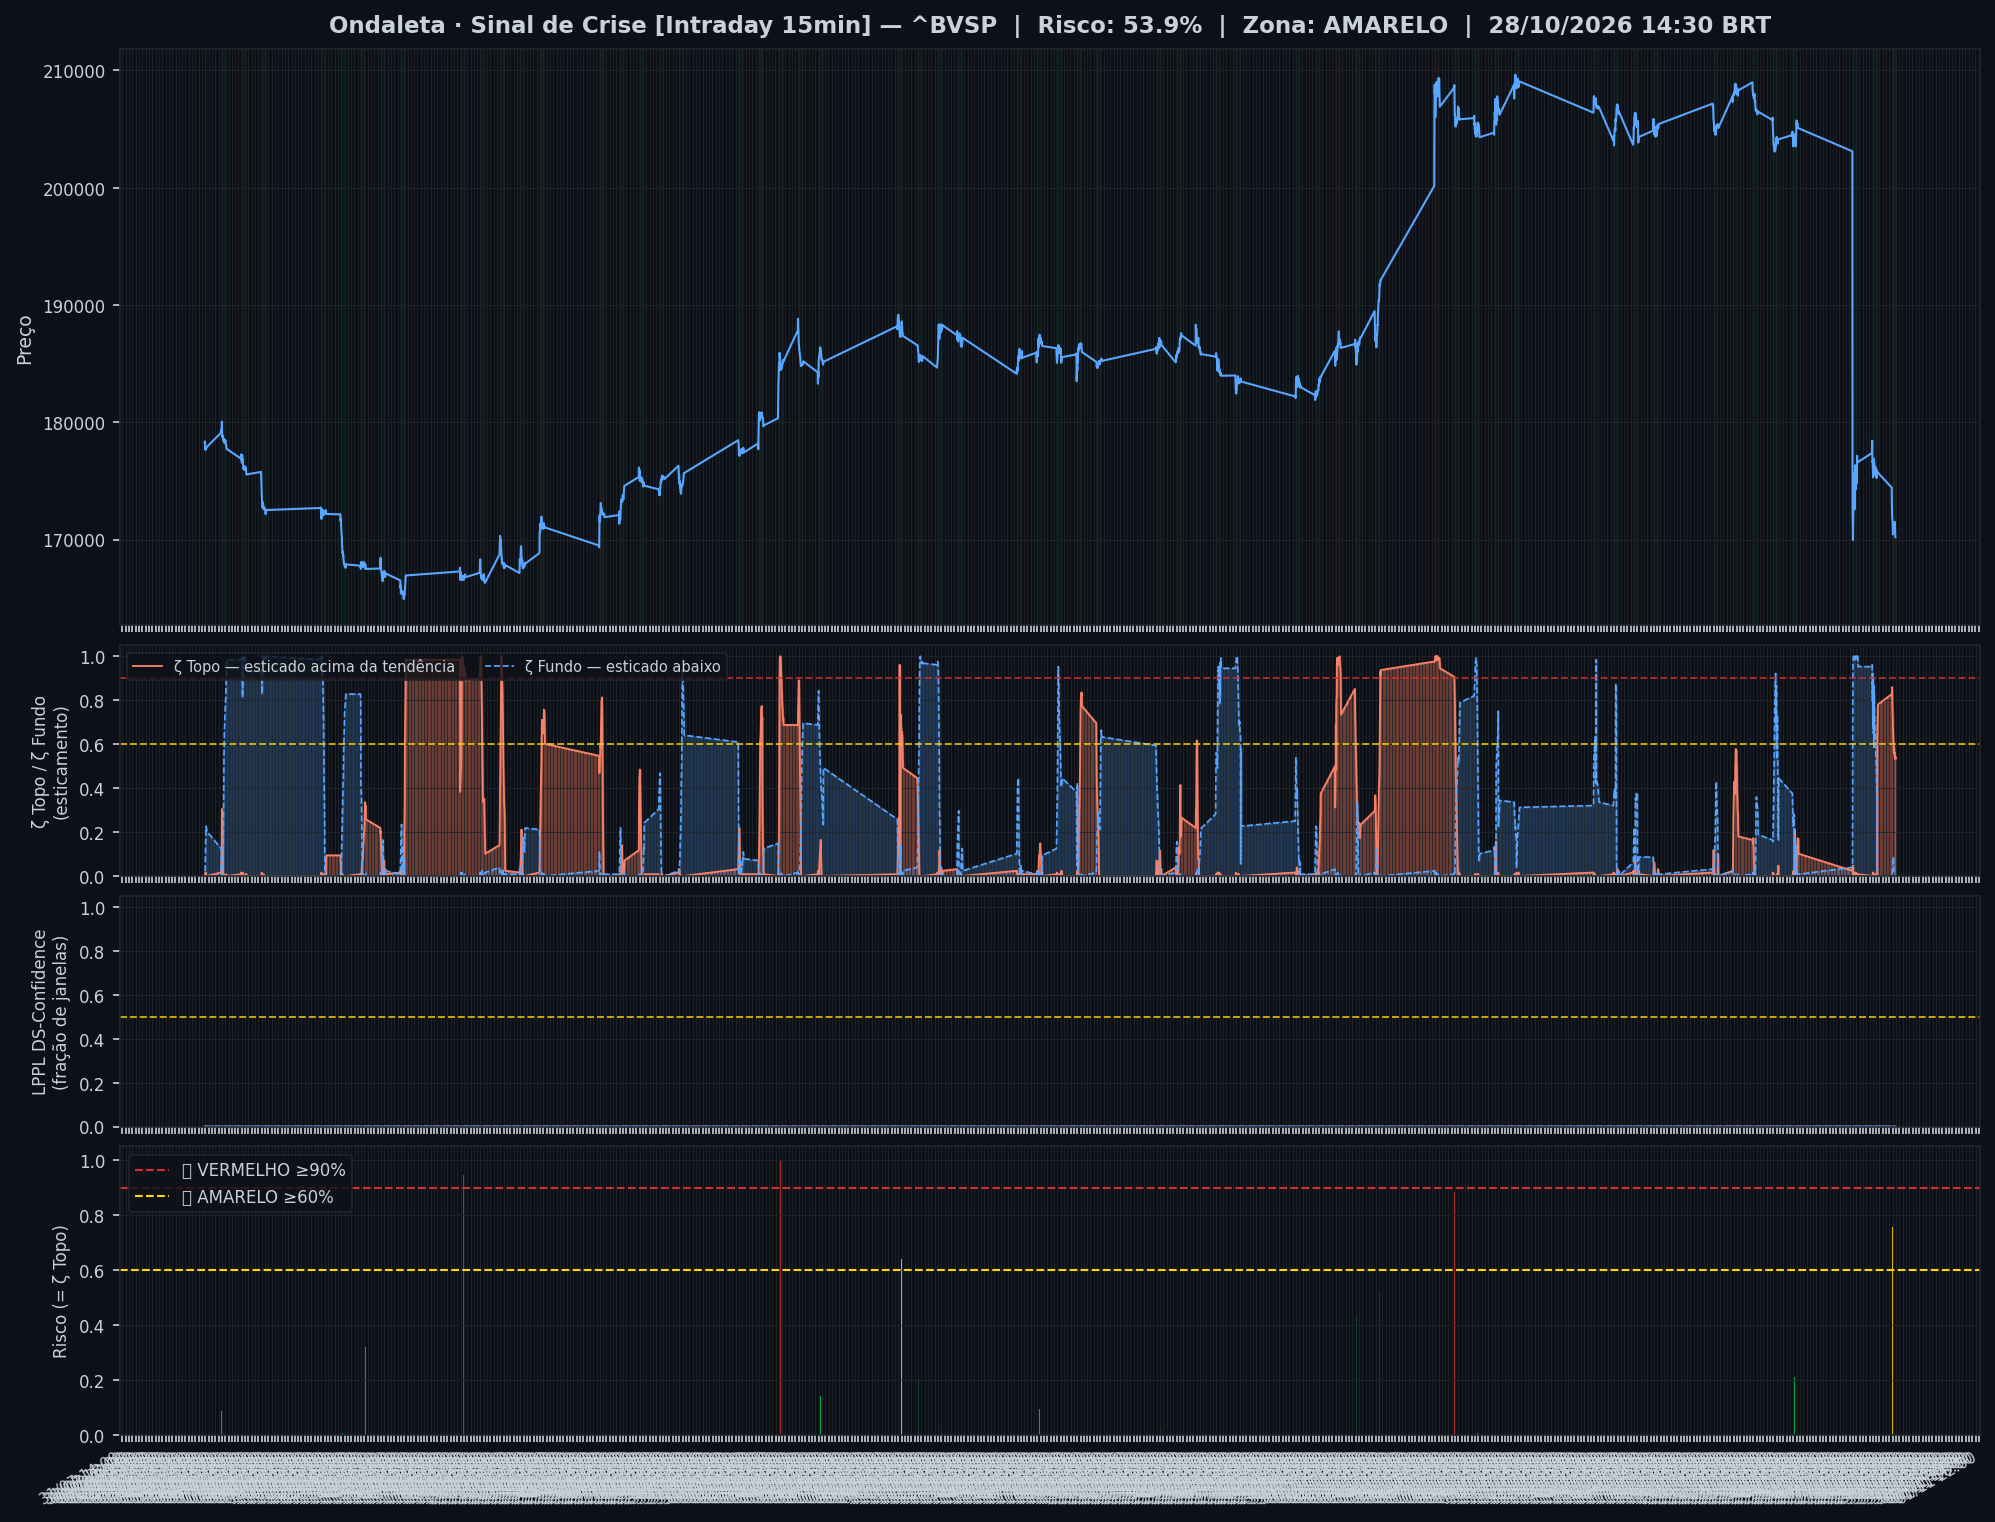
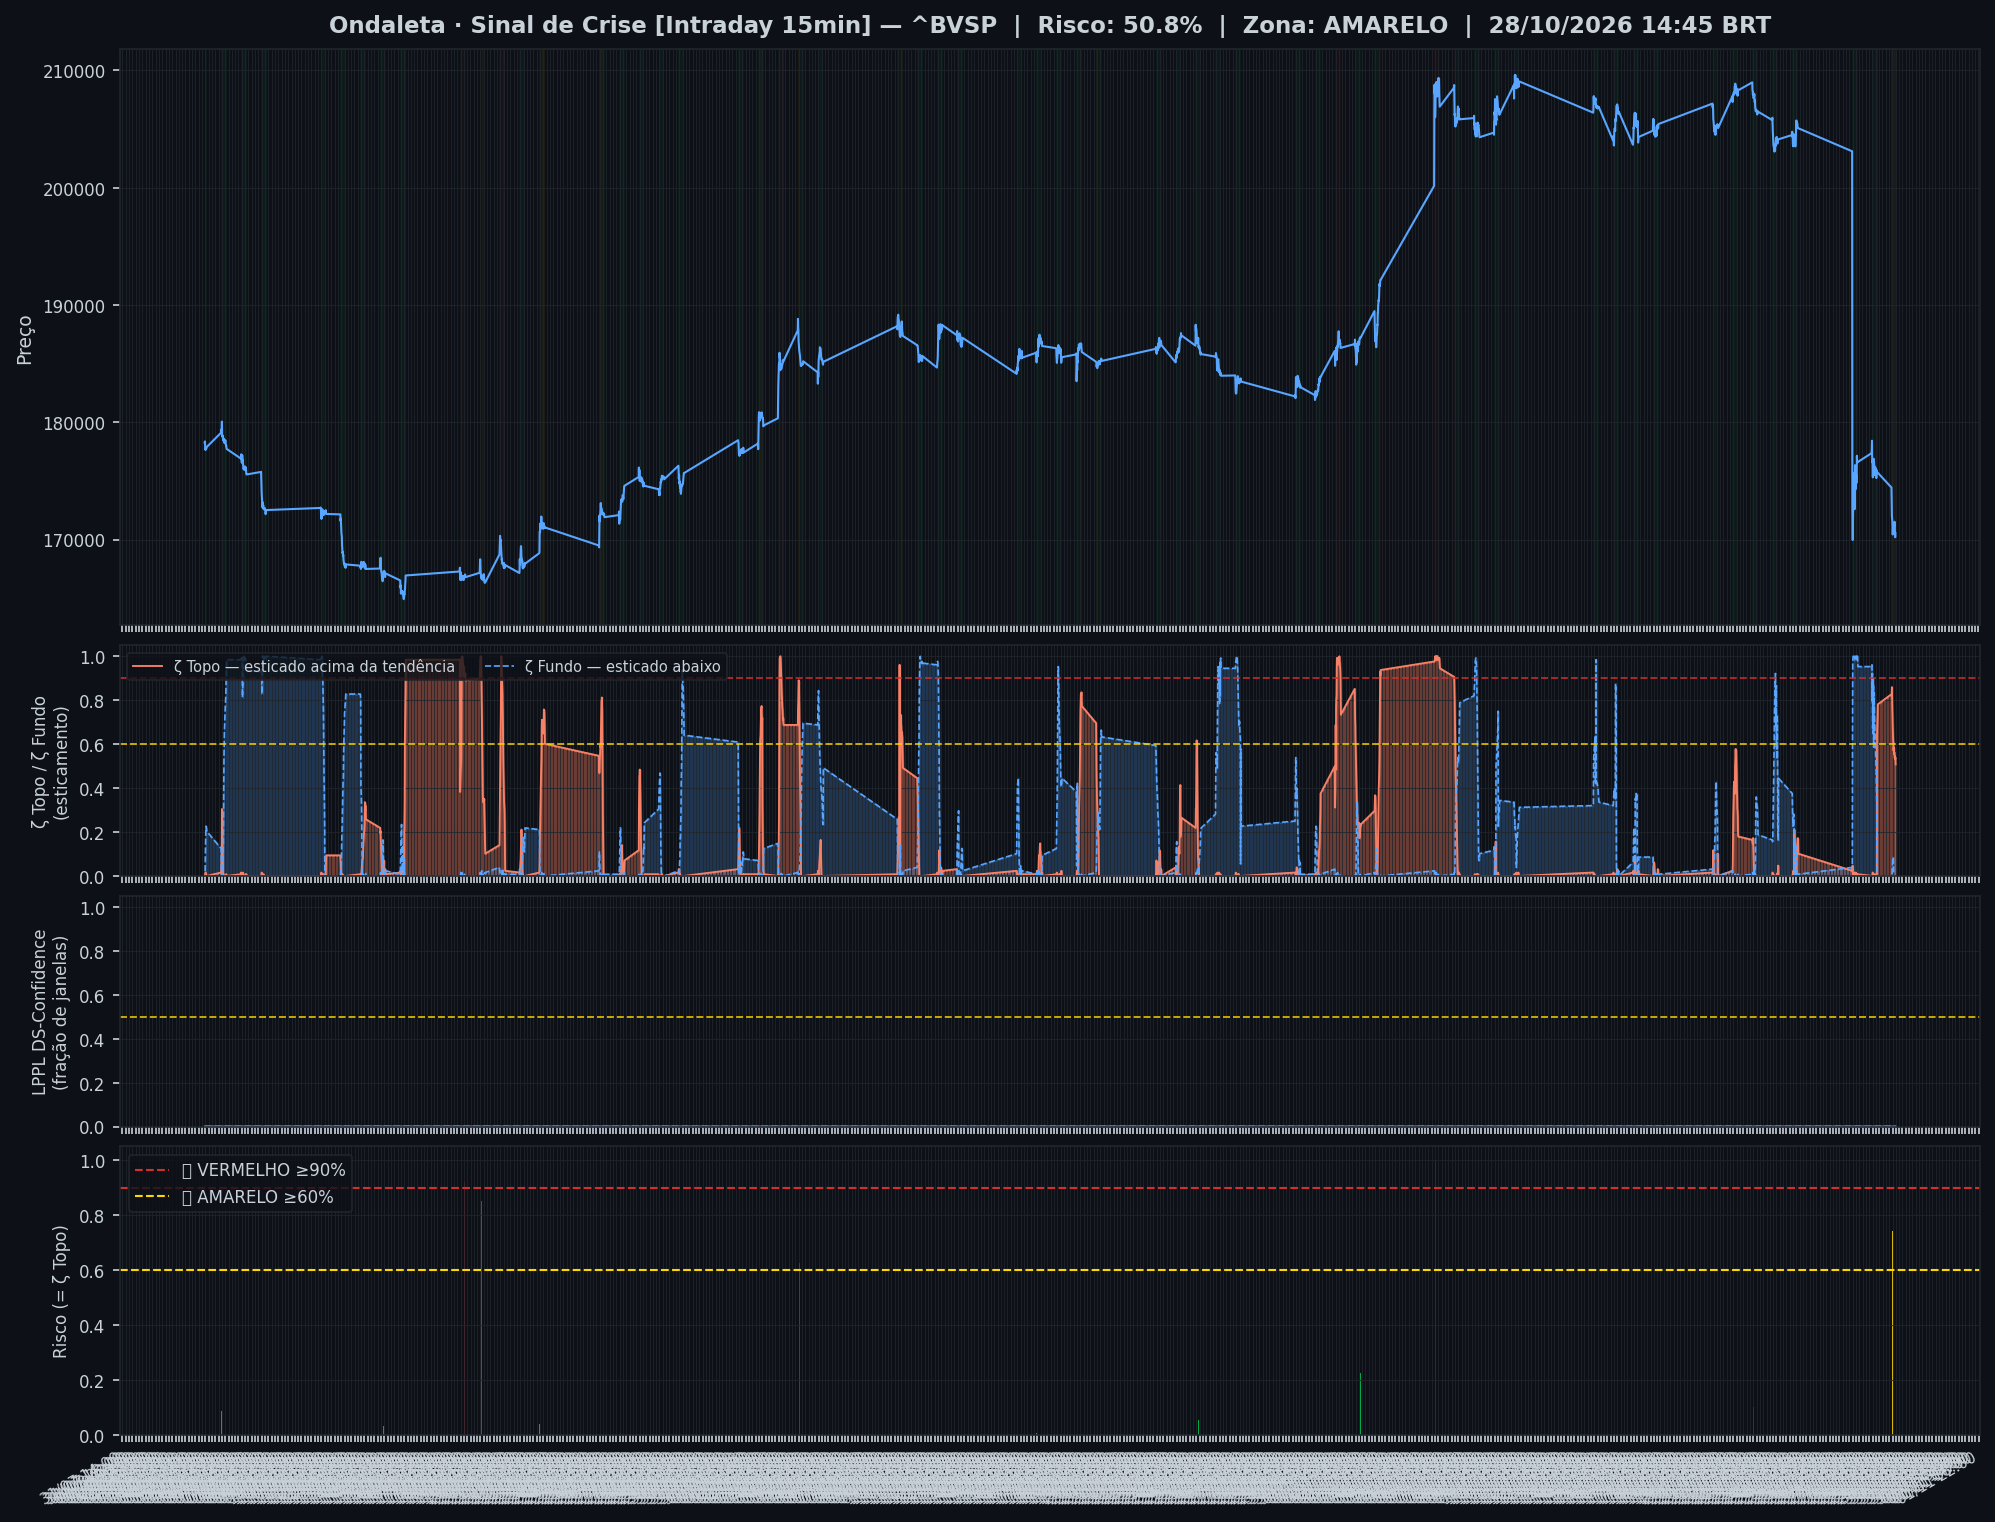
🤖 Auto: Sinal 28/10/2026 15:00

diff --git a/content/intraday/2026-10-28.md b/content/intraday/2026-10-28.md
@@ -1,10 +1,10 @@
 ---
-title: "🟡 Intraday 28/10/2026 14:30 BRT — AMARELO"
+title: "🟡 Intraday 28/10/2026 14:45 BRT — AMARELO"
 date: 2026-10-28
 tags: [intraday]
 ---
 
-> [!success] Onde o mercado está agora (28/10 14:30, candles de 15 min): **🟢 Calmo**
+> [!success] Onde o mercado está agora (28/10 14:45, candles de 15 min): **🟢 Calmo**
 > `Pânico ◀───────────────●─────▶ Euforia`
 >
 > O Ibovespa está dentro da sua faixa normal, sem excesso para cima nem para baixo.
@@ -20,8 +20,8 @@ tags: [intraday]
 > | 📍 **Sinais** | hoje: 2 sinal(is) | [abrir](sinais-topo-fundo/) |
 > | 🧪 **Placar ao vivo** | nenhuma operação encerrada ainda (desde 23/10/2026) | [abrir](operacoes/) |
 
-> [!warning] Sinal de Crise · Intraday 15 min (28/10 14:30): 🟡 **AMARELO** — Risco 54% · ▲ +1 p.p. vs leitura anterior
-> `███████████░░░░░░░░░`
+> [!warning] Sinal de Crise · Intraday 15 min (28/10 14:45): 🟡 **AMARELO** — Risco 51% · ▼ -3 p.p. vs leitura anterior
+> `██████████░░░░░░░░░░`
 > Atenção — preço esticado acima da tendência.
 
 
@@ -32,13 +32,13 @@ tags: [intraday]
 >
 > *Leitura educacional baseada em 26 anos de dados, não recomendação. [Como usar](../metodologia/crise#3-como-usar-na-prática).*
 
-| Indicador — Sinal de Crise · Intraday 15 min (28/10 14:30) | Valor |
+| Indicador — Sinal de Crise · Intraday 15 min (28/10 14:45) | Valor |
 |---|---|
-| 🔴 ζ Topo — preço esticado acima da tendência | **54%** |
+| 🔴 ζ Topo — preço esticado acima da tendência | **51%** |
 | 🔵 ζ Fundo — preço esticado abaixo da tendência | 0% |
 | 🫧 LPPL bolha — alta super-exponencial (risco de crash) | 0% |
 | 🫧 LPPL antibolha — queda super-exponencial (risco de repique) | 0% |
-| 📊 Ibovespa | 170.196 pts |
+| 📊 Ibovespa | 170.555 pts |
 
 ![Gráfico do sinal](../graficos/sinal_intraday.png)
 
@@ -46,6 +46,7 @@ tags: [intraday]
 
 | Data | Zona | Evento | Risco | ζ Topo | ζ Fundo | LPPL |
 |---|---|---|---|---|---|---|
+| 2026-10-28 14:45 | 🟡 AMARELO |  | **51%** | 51% | 0% | 0% |
 | 2026-10-28 14:30 | 🟡 AMARELO |  | **54%** | 54% | 0% | 0% |
 | 2026-10-28 14:15 | 🟡 AMARELO |  | **53%** | 53% | 0% | 0% |
 | 2026-10-28 14:00 | 🟡 AMARELO |  | **55%** | 55% | 0% | 0% |
@@ -75,51 +76,50 @@ tags: [intraday]
 | 2026-10-27 15:30 | 🟢 VERDE |  | **0%** | 0% | 42% | 0% |
 | 2026-10-27 15:15 | 🟢 VERDE |  | **1%** | 1% | 48% | 0% |
 | 2026-10-27 15:00 | 🟢 VERDE |  | **0%** | 0% | 52% | 0% |
-| 2026-10-27 14:45 | 🟢 VERDE |  | **0%** | 0% | 56% | 0% |
 
 <small>Destaques: 🟡 ≥ 60% · 🔴 ≥ 90% (Risco e ζ Topo) · 🔵 ≥ 60% · 🔪 ≥ 90% (ζ Fundo) · 🫧 ≥ 30% · 🫧🔴 ≥ 50% (LPPL)</small>
 
 ## Monitor Multi-Ativo
 
-**23% dos ativos em tensão** (2🔴 5🟡) · **2 com ζ Fundo alto** — quanto mais ativos disparam juntos, mais confiável o sinal.
+**19% dos ativos em tensão** (1🔴 6🟡) · **2 com ζ Fundo alto** — quanto mais ativos disparam juntos, mais confiável o sinal.
 
 > [!danger] Em destaque no multi-ativo
-> 🔪 **BBSEGURIDADE** ζ Fundo 98% · 🔴 **LOCALIZA** ζ Topo 91% · 🔵 **GERDAU** ζ Fundo 90% · 🟡 **B3** ζ Topo 76% · 🟡 **BRASIL** ζ Topo 69% · 🟡 **REDE D OR** ζ Topo 65% · 🟡 **SABESP** ζ Topo 64% · 🟡 **EQUATORIAL** ζ Topo 61%
+> 🔪 **BBSEGURIDADE** ζ Fundo 98% · 🟡 **LOCALIZA** ζ Topo 90% · 🔵 **GERDAU** ζ Fundo 88% · 🟡 **B3** ζ Topo 73% · 🟡 **BRASIL** ζ Topo 67% · 🟡 **REDE D OR** ζ Topo 63% · 🟡 **EQUATORIAL** ζ Topo 60%
 
 | Zona | Ativo | Setor | ζ Topo | ζ Fundo |
 |---|---|---|---|---|
 | 🟢 | **BBSEGURIDADE** | Financeiro | 0.0% | 🔪 **98.4%** |
-| 🔴 | **LOCALIZA** | Aluguel | 🔴 **90.6%** | 0.0% |
-| 🟢 | **GERDAU** | Siderurgia | 1.6% | 🔵 **89.8%** |
-| 🔴 | **B3** | Financeiro | 🟡 **75.8%** | 0.0% |
-| 🟡 | **BRASIL** | Financeiro | 🟡 **68.8%** | 0.0% |
-| 🟡 | **REDE D OR** | Saúde | 🟡 **64.8%** | 0.0% |
-| 🟡 | **SABESP** | Saneamento | 🟡 **64.1%** | 0.0% |
-| 🟡 | **EQUATORIAL** | Energia | 🟡 **60.9%** | 0.0% |
-| 🟡 | **BRADESCO** | Financeiro | 59.4% | 0.0% |
-| 🟢 | **WEG** | Industrial | 49.2% | 0.0% |
-| 🟢 | **ITAUUNIBANCO** | Financeiro | 46.9% | 0.0% |
-| 🟢 | **ITAUSA** | Financeiro | 44.5% | 0.0% |
-| 🟢 | **BTGP BANCO** | Financeiro | 43.8% | 0.0% |
-| 🟢 | **COPEL** | Energia | 35.2% | 0.0% |
-| 🟢 | **SUZANO S.A.** | Papel/Celulose | 35.2% | 32.0% |
-| 🟢 | **PRIO** | Petróleo | 32.0% | 0.0% |
-| 🟢 | **ULTRAPAR** | Outros | 28.9% | 0.0% |
-| 🟢 | **VIBRA** | Energia | 25.8% | 1.6% |
-| 🟢 | **AMBEV S/A** | Consumo | 24.2% | 0.0% |
-| 🟢 | **ENEVA** | Energia | 21.1% | 0.0% |
-| 🟢 | **USD/BRL** | Câmbio | 18.8% | 2.3% |
-| 🟢 | **PETROBRAS** | Petróleo | 16.4% | 0.0% |
-| 🟢 | **AXIA ENERGIA** | Energia | 13.3% | 5.5% |
-| 🟢 | **PETROBRAS** | Petróleo | 7.8% | 0.0% |
-| 🟢 | **VALE** | Mineração | 5.5% | 0.8% |
-| 🟢 | **EMBRAER** | Outros | 1.6% | 2.3% |
+| 🔴 | **LOCALIZA** | Aluguel | 🟡 **89.8%** | 0.0% |
+| 🟢 | **GERDAU** | Siderurgia | 0.8% | 🔵 **88.3%** |
+| 🟡 | **B3** | Financeiro | 🟡 **73.4%** | 0.0% |
+| 🟡 | **BRASIL** | Financeiro | 🟡 **67.2%** | 0.0% |
+| 🟡 | **REDE D OR** | Saúde | 🟡 **63.3%** | 0.0% |
+| 🟡 | **EQUATORIAL** | Energia | 🟡 **60.2%** | 0.0% |
+| 🟡 | **SABESP** | Saneamento | 59.4% | 0.0% |
+| 🟡 | **BRADESCO** | Financeiro | 57.8% | 0.0% |
+| 🟢 | **WEG** | Industrial | 50.8% | 0.0% |
+| 🟢 | **ITAUUNIBANCO** | Financeiro | 45.3% | 0.0% |
+| 🟢 | **ITAUSA** | Financeiro | 39.8% | 0.0% |
+| 🟢 | **BTGP BANCO** | Financeiro | 39.8% | 0.0% |
+| 🟢 | **SUZANO S.A.** | Papel/Celulose | 36.7% | 28.9% |
+| 🟢 | **COPEL** | Energia | 28.9% | 0.0% |
+| 🟢 | **ULTRAPAR** | Outros | 25.8% | 0.8% |
+| 🟢 | **VIBRA** | Energia | 23.4% | 4.7% |
+| 🟢 | **PRIO** | Petróleo | 19.5% | 0.0% |
+| 🟢 | **AMBEV S/A** | Consumo | 18.8% | 0.0% |
+| 🟢 | **PETROBRAS** | Petróleo | 15.6% | 0.8% |
+| 🟢 | **USD/BRL** | Câmbio | 15.6% | 1.6% |
+| 🟢 | **ENEVA** | Energia | 12.5% | 1.6% |
+| 🟢 | **AXIA ENERGIA** | Energia | 10.2% | 8.6% |
+| 🟢 | **PETROBRAS** | Petróleo | 5.5% | 0.8% |
+| 🟢 | **VALE** | Mineração | 3.9% | 0.8% |
+| 🟢 | **EMBRAER** | Outros | 0.8% | 3.1% |
 
 <small>Destaques: 🟡 ≥ 60% · 🔴 ≥ 90% (Risco e ζ Topo) · 🔵 ≥ 60% · 🔪 ≥ 90% (ζ Fundo) · 🫧 ≥ 30% · 🫧🔴 ≥ 50% (LPPL)</small>
 
 ![Monitor multi-ativo](../graficos/multi_intraday.png)
 
-*Página atualizada em 28/10/2026 14:45 BRT (leitura da barra de 2026-10-28 14:30 BRT).*
+*Página atualizada em 28/10/2026 15:00 BRT (leitura da barra de 2026-10-28 14:45 BRT).*
 
 > [!info]- Como interpretar (clique para expandir)
 > - **ζ Topo**: fração dos coeficientes wavelet (Chapéu Mexicano, Caetano & Yoneyama 2009) acima de +0,8σ na faixa mais recente. Na ponta da série isso acontece quando o preço termina **esticado acima da tendência** em muitas escalas — euforia/topo. ζ=0,90 é o limiar de Caetano: quedas que partiram desse padrão foram mais fundas. **É risco de reversão, não data do crash.**

diff --git a/content/index.md b/content/index.md
@@ -6,9 +6,9 @@ tags: [home]
 
 **As ondas do mercado, explicadas.** Leitura do Ibovespa com estatística de 26 anos, baseada no trabalho de pesquisadores e traders reconhecidos e adaptada por Jarbas Daniel da Costa.
 
-*Última atualização: 28/10/2026 14:45 BRT · Intraday 15min*
+*Última atualização: 28/10/2026 15:00 BRT · Intraday 15min*
 
-> [!success] Onde o mercado está agora (28/10 14:30, candles de 15 min): **🟢 Calmo**
+> [!success] Onde o mercado está agora (28/10 14:45, candles de 15 min): **🟢 Calmo**
 > `Pânico ◀───────────────●─────▶ Euforia`
 >
 > O Ibovespa está dentro da sua faixa normal, sem excesso para cima nem para baixo.
@@ -20,7 +20,7 @@ tags: [home]
 
 | Módulo | Agora | |
 |---|---|---|
-| 🌊 **Sinal de Crise** | 🟡 AMARELO · 🟢 calmo · ζ Topo 54% | [relatório](intraday/2026-10-28) |
+| 🌊 **Sinal de Crise** | 🟡 AMARELO · 🟢 calmo · ζ Topo 51% | [relatório](intraday/2026-10-28) |
 | 📈 **Tendência MME9** | Diário 🟢 comprado desde 02/10 (-6,5%) · ⚡ zera abaixo de 169.516 (durante o pregão)<br>Semanal 🟢 comprado desde 31/08 (-0,4%) | [abrir](operacoes/tendencia) |
 | 🎯 **Entradas do método** | 🟢 comprado: Diário · Nadaraya<br>⏳ aguardando: H4 · Semáforo N2 | [abrir](operacoes/entradas) |
 | 📍 **Sinais** | hoje: 2 sinal(is) | [abrir](sinais-topo-fundo/) |
@@ -50,26 +50,26 @@ tags: [home]
 > *Leitura educacional baseada em 26 anos de dados, não recomendação. [Como usar](metodologia/crise#3-como-usar-na-prática).*
 
 > [!info]- 🌊 Detalhes do Sinal de Crise (indicadores e últimos 7 pregões)
-> > [!warning] Sinal de Crise · Intraday 15 min (28/10 14:30): 🟡 **AMARELO** — Risco 54% · ▲ +1 p.p. vs leitura anterior
-> > `███████████░░░░░░░░░`
+> > [!warning] Sinal de Crise · Intraday 15 min (28/10 14:45): 🟡 **AMARELO** — Risco 51% · ▼ -3 p.p. vs leitura anterior
+> > `██████████░░░░░░░░░░`
 > > Atenção — preço esticado acima da tendência.
 >
 >
-> | Indicador — Sinal de Crise · Intraday 15 min (28/10 14:30) | Valor |
+> | Indicador — Sinal de Crise · Intraday 15 min (28/10 14:45) | Valor |
 > |---|---|
-> | 🔴 ζ Topo — preço esticado acima da tendência | **54%** |
+> | 🔴 ζ Topo — preço esticado acima da tendência | **51%** |
 > | 🔵 ζ Fundo — preço esticado abaixo da tendência | 0% |
 > | 🫧 LPPL bolha — alta super-exponencial (risco de crash) | 0% |
 > | 🫧 LPPL antibolha — queda super-exponencial (risco de repique) | 0% |
-> | 📊 Ibovespa | 170.196 pts |
+> | 📊 Ibovespa | 170.555 pts |
 >
-> **Multi-ativo:** 23% em tensão (2🔴 5🟡 de 26 ativos)
+> **Multi-ativo:** 19% em tensão (1🔴 6🟡 de 26 ativos)
 >
 > **Últimos 7 pregões**
 >
 > | Data | Zona | Risco | ζ Topo | ζ Fundo | LPPL |
 > |---|---|---|---|---|---|
-> | [28/10/2026](intraday/2026-10-28) | 🟡 AMARELO | **54%** | 54% | 0% | 0% |
+> | [28/10/2026](intraday/2026-10-28) | 🟡 AMARELO | **51%** | 51% | 0% | 0% |
 > | [27/10/2026](intraday/2026-10-27) | 🟡 AMARELO | 🟡 **78%** | 🟡 **78%** | 0% | 0% |
 >
 > <small>Destaques: 🟡 ≥ 60% · 🔴 ≥ 90% (Risco e ζ Topo) · 🔵 ≥ 60% · 🔪 ≥ 90% (ζ Fundo) · 🫧 ≥ 30% · 🫧🔴 ≥ 50% (LPPL)</small>

diff --git a/content/operacoes/entradas.md b/content/operacoes/entradas.md
@@ -31,7 +31,7 @@ description: "Compra depois de um sinal de fundo: Nadaraya no diário, semáforo
 > | H4 · Semáforo N2 | 05/05/26 10h a 186.583 | 07/05/26 10h a 186.583 | **+0,0%** | stop no preço de entrada |
 > | H4 · Semáforo N2 | 25/03/26 10h a 185.486 | 23/04/26 10h a 192.517 | **+3,8%** | saída do método (topo fixo do semáforo nível 3) |
 >
-> <small>Atualizado 27/10 19:00 · checado no pregão às 14:45. Nota: ✅ passou no teste fora da amostra (walk-forward 2008–2026) · 🧪 em teste (H4, com aviso no Telegram) ou em observação (ζ, sem aviso) · 🧪 na tabela = operação do teste ao vivo.</small>
+> <small>Atualizado 27/10 19:00 · checado no pregão às 15:00. Nota: ✅ passou no teste fora da amostra (walk-forward 2008–2026) · 🧪 em teste (H4, com aviso no Telegram) ou em observação (ζ, sem aviso) · 🧪 na tabela = operação do teste ao vivo.</small>
 >
 > *Regras: depois de um sinal de fundo, o Diário entra quando o Nadaraya vira para cima; o Semanal e o H4 entram quando um fundo do semáforo fica fixo. Stop e saída de cada regra na [metodologia](metodologia/regras-de-operacao#entradas-do-método). Nenhuma regra de venda passou no teste. Os números do histórico têm viés de escolha (overfitting); o placar ao vivo é o que vale. Leitura educacional do método, não recomendação.*
 

diff --git a/content/operacoes/ranking.md b/content/operacoes/ranking.md
@@ -5,7 +5,7 @@ tags: [operacoes]
 description: "As regras de compra do site ordenadas pelo resultado, com treino, teste e placar ao vivo"
 ---
 
-*Atualizado 28/10/2026 14:45 · histórico simulado com as regras congeladas em 23/10/2026 + placar ao vivo.*
+*Atualizado 28/10/2026 15:00 · histórico simulado com as regras congeladas em 23/10/2026 + placar ao vivo.*
 
 As regras de compra do site, **da que mais rendeu para a que menos rendeu**. O resultado é por operação, no índice à vista, sem custos e sem juros compostos (a soma é só a soma das operações). **Treino** = entradas de 2001 a 2013 e **teste** = 2014 em diante: uma regra só é confiável se ganhou nos dois. O único resultado sem nenhum ajuste ao histórico é o **placar ao vivo**.
 

diff --git a/content/linha-do-tempo/index.md b/content/linha-do-tempo/index.md
@@ -5,7 +5,7 @@ description: "Todo sinal, ordem, stop e aviso da Ondaleta, do mais recente para 
 tags: [eventos]
 ---
 
-*Atualizada 28/10/2026 14:45 BRT · a cada 15 min no pregão e às 19h.*
+*Atualizada 28/10/2026 15:00 BRT · a cada 15 min no pregão e às 19h.*
 
 Tudo o que o sistema fez ou detectou, **do mais recente para o mais antigo**: sinais de topo e fundo, ordens de compra e de venda armadas, compras, vendas, stops, avisos de 🚨 preço perto do nível e mudanças da Crise. Os **últimos 7 dias** ficam abertos; o resto, por **ano → mês → dia**.
 

diff --git a/content/historico.md b/content/historico.md
@@ -7,6 +7,7 @@ tags: [historico]
 
 | Data | Modo | Zona | Risco | IMA | LPPL |
 |---|---|---|---|---|---|
+| 2026-10-28 14:45 | intraday | 🟡 AMARELO | 51% | 51% | 0% |
 | 2026-10-28 14:30 | intraday | 🟡 AMARELO | 54% | 54% | 0% |
 | 2026-10-28 14:15 | intraday | 🟡 AMARELO | 53% | 53% | 0% |
 | 2026-10-28 14:00 | intraday | 🟡 AMARELO | 55% | 55% | 0% |
